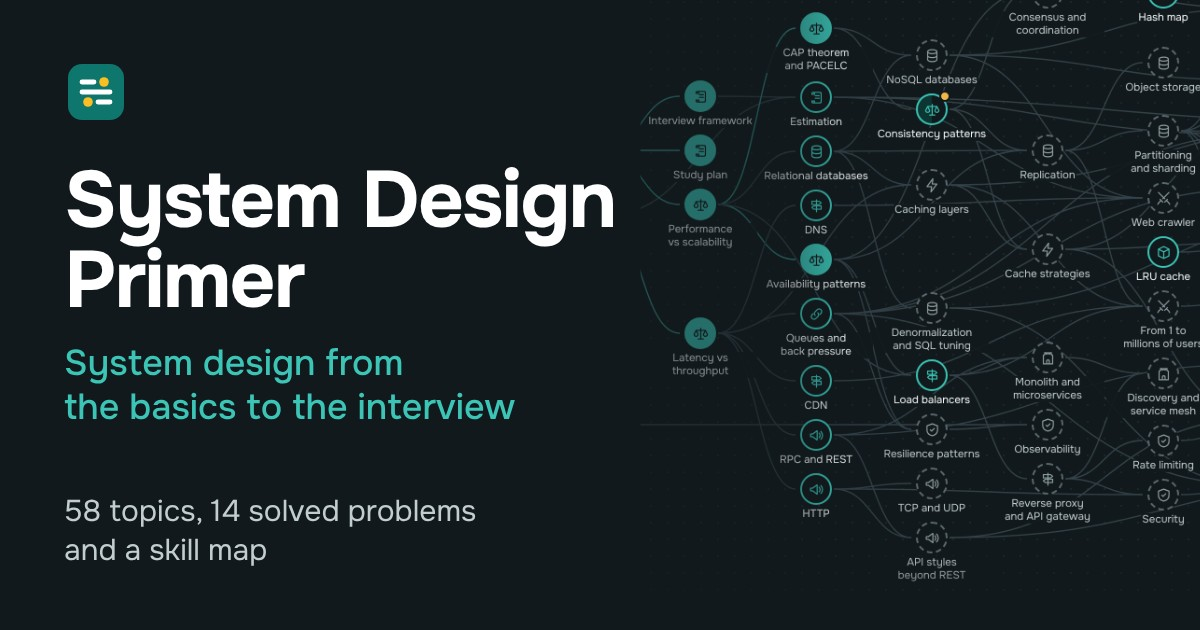
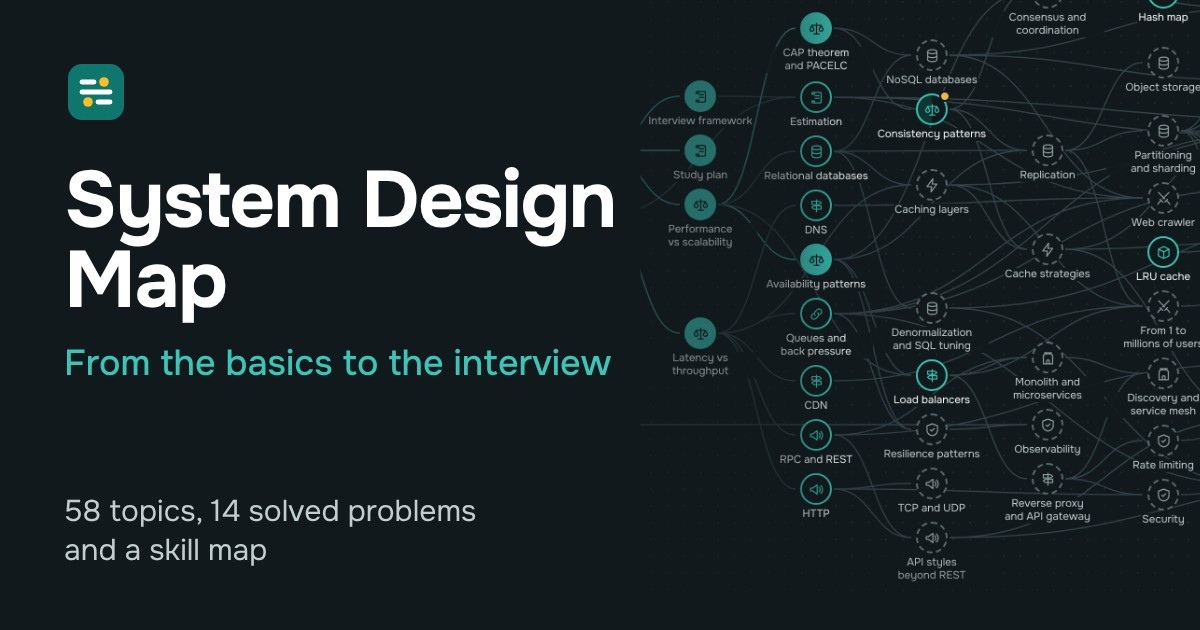
Rename the site to System Design Map / Карта системного дизайна
The site carried the original project's name, which made it look like
the official System Design Primer, and Russian readers took "Primer"
for "пример". It now has its own name in both languages and credits
The System Design Primer as the work it adapts.

The site title, home heroes, link-preview pictures and alt text, READMEs,
the credits attribution line and the Anki deck names change; internal
ids (progress file app id, storage keys, card GUIDs) stay the same so
saved progress and imported decks keep working. On phones the longer
Russian name wraps onto two lines instead of being cut off.

Changed region(s): [[0.0308, 0.5429, 0.5242, 0.6635], [0.0617, 0.3921, 0.2775, 0.5127]]

diff --git a/src/route-data.ts b/src/route-data.ts
@@ -9,8 +9,8 @@ export const onRequest = defineRouteMiddleware((context) => {
   const image = new URL(`${base}og/og-${lang}.jpg`, context.site).href;
   const alt =
     lang === 'ru'
-      ? 'System Design Primer: системный дизайн от основ до собеседования. 58 тем, 14 разобранных задач и карта навыков.'
-      : 'System Design Primer: system design from the basics to the interview. 58 topics, 14 solved problems and a skill map.';
+      ? 'Карта системного дизайна: от основ до собеседования. 58 тем, 14 разобранных задач и карта навыков.'
+      : 'System Design Map: from the basics to the interview. 58 topics, 14 solved problems and a skill map.';
 
   route.head.push(
     { tag: 'meta', attrs: { property: 'og:image', content: image } },

diff --git a/src/styles/theme.css b/src/styles/theme.css
@@ -93,6 +93,17 @@
   letter-spacing: -0.01em;
   color: var(--sl-color-white);
 }
+/* The Russian site name is long: on narrow screens it wraps onto two lines instead of being cut off. */
+@media (max-width: 50rem) {
+  .site-title {
+    white-space: normal;
+  }
+  .site-title span {
+    font-size: var(--sl-text-base);
+    line-height: 1.15;
+    text-wrap: balance;
+  }
+}
 
 /* ---------- Asides ---------- */
 

diff --git a/README.ru.md b/README.ru.md
@@ -1,4 +1,4 @@
-# System Design Primer: переработанный, обновлённый, на двух языках
+# Карта системного дизайна
 
 [English](README.md) · **Русский**
 

diff --git a/README.md b/README.md
@@ -1,4 +1,4 @@
-# System Design Primer: restructured, updated, bilingual
+# System Design Map
 
 **English** · [Русский](README.ru.md)
 
